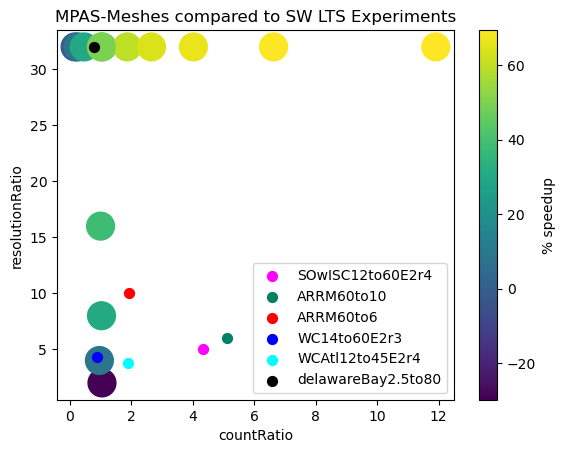
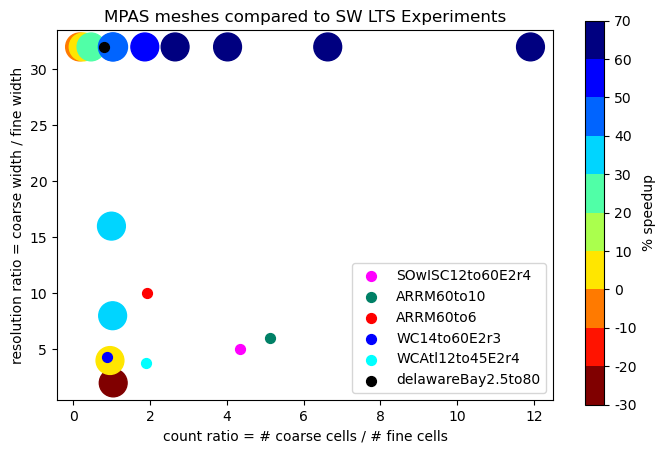
make colorbar consist of discrete colors

diff --git a/scripts/make_meshComparision_plot.py b/scripts/make_meshComparision_plot.py
@@ -2,9 +2,9 @@
 
 import os
 import sys
+import matplotlib as mpl
 import matplotlib.pyplot as plt
 import numpy as np
-import pandas as pd
 
 
 def main():
@@ -44,38 +44,52 @@ def main():
         speedups.append(point[2])
 
 
-    plt.scatter(countRatios, resolutionRatios, c=speedups, s=400)
-    plt.xlabel('countRatio')
-    plt.ylabel('resolutionRatio')
+    fig, ax = plt.subplots()
     
-    cbar = plt.colorbar()
+    ax.set(xlabel='count ratio = # coarse cells / # fine cells', ylabel='resolution ratio = coarse width / fine width',
+           title='MPAS meshes compared to SW LTS Experiments')
+    
+    cmap = plt.cm.jet
+    cmaplist = [cmap(i) for i in range(cmap.N)]
+    cmaplist.reverse()
+    cmap = mpl.colors.LinearSegmentedColormap.from_list('Custom cmap', cmaplist, cmap.N)
+
+    bounds = np.linspace(-30, 70, 11)
+    norm = mpl.colors.BoundaryNorm(bounds, cmap.N)
+    
+    ax.scatter(countRatios, resolutionRatios, c=speedups, s=400,
+               cmap=cmap, norm=norm)
+
+    cax = fig.add_axes([0.95, 0.1, 0.03, 0.8])
+    cbar = mpl.colorbar.ColorbarBase(cax, cmap=cmap, norm=norm,
+                                     spacing='proportional', ticks=bounds, boundaries=bounds, format='%1i')
+
+    #cbar = plt.colorbar()
     cbar.ax.set_ylabel('% speedup')
 
     # MPAS meshes
     
     # SOwISC12to60E2r4
-    plt.scatter(4.343, 5, c=0 , s=50, cmap='spring', label='SOwISC12to60E2r4')
+    ax.scatter(4.343, 5, c=0 , s=50, cmap='spring', label='SOwISC12to60E2r4')
     
     # ARRM60to10
-    plt.scatter(5.120, 6, c=0 , s=50, cmap='summer', label='ARRM60to10')
+    ax.scatter(5.120, 6, c=0 , s=50, cmap='summer', label='ARRM60to10')
     
     # ARRM60to6
-    plt.scatter(1.913, 10, c=0 , s=50, cmap='autumn', label='ARRM60to6')
+    ax.scatter(1.913, 10, c=0 , s=50, cmap='autumn', label='ARRM60to6')
     
     # WC14to60E2r3
-    plt.scatter(0.869, 4.286, c=0 , s=50, cmap='winter', label='WC14to60E2r3')
+    ax.scatter(0.869, 4.286, c=0 , s=50, cmap='winter', label='WC14to60E2r3')
     
     # WCAtl12to45E2r4
-    plt.scatter(1.900, 3.75, c=0 , s=50, cmap='cool', label='WCAtl12to45E2r4')
+    ax.scatter(1.900, 3.75, c=0 , s=50, cmap='cool', label='WCAtl12to45E2r4')
     
     # delawareBay
-    plt.scatter(0.788, 32, c=0 , s=50, cmap='gray', label='delawareBay2.5to80')
+    ax.scatter(0.788, 32, c=0 , s=50, cmap='gray', label='delawareBay2.5to80')
 
-    plt.legend()
+    ax.legend()
 
-    plt.title('MPAS-Meshes compared to SW LTS Experiments')
-    
-    plt.savefig('meshComparison.png', bbox_inches='tight')
+    fig.savefig('meshComparison.png', bbox_inches='tight')
 
 # END main()
 
